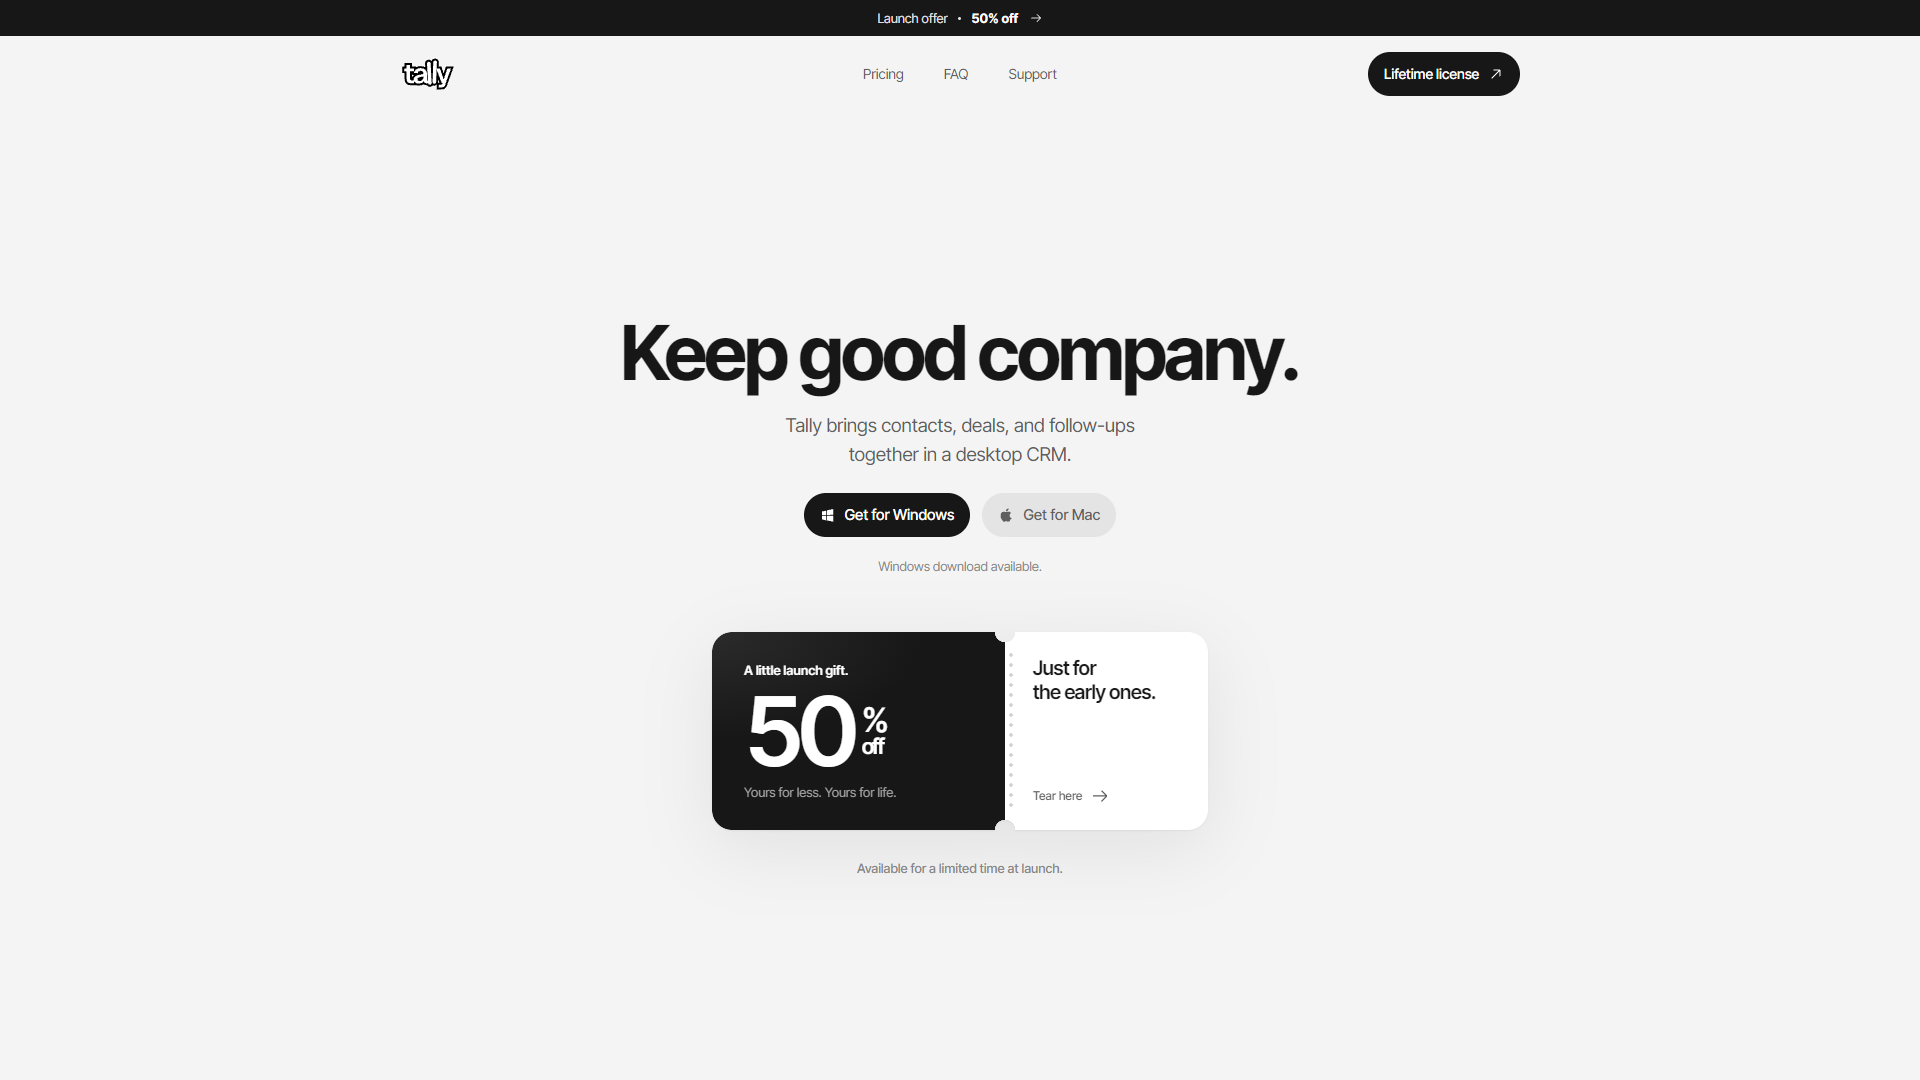
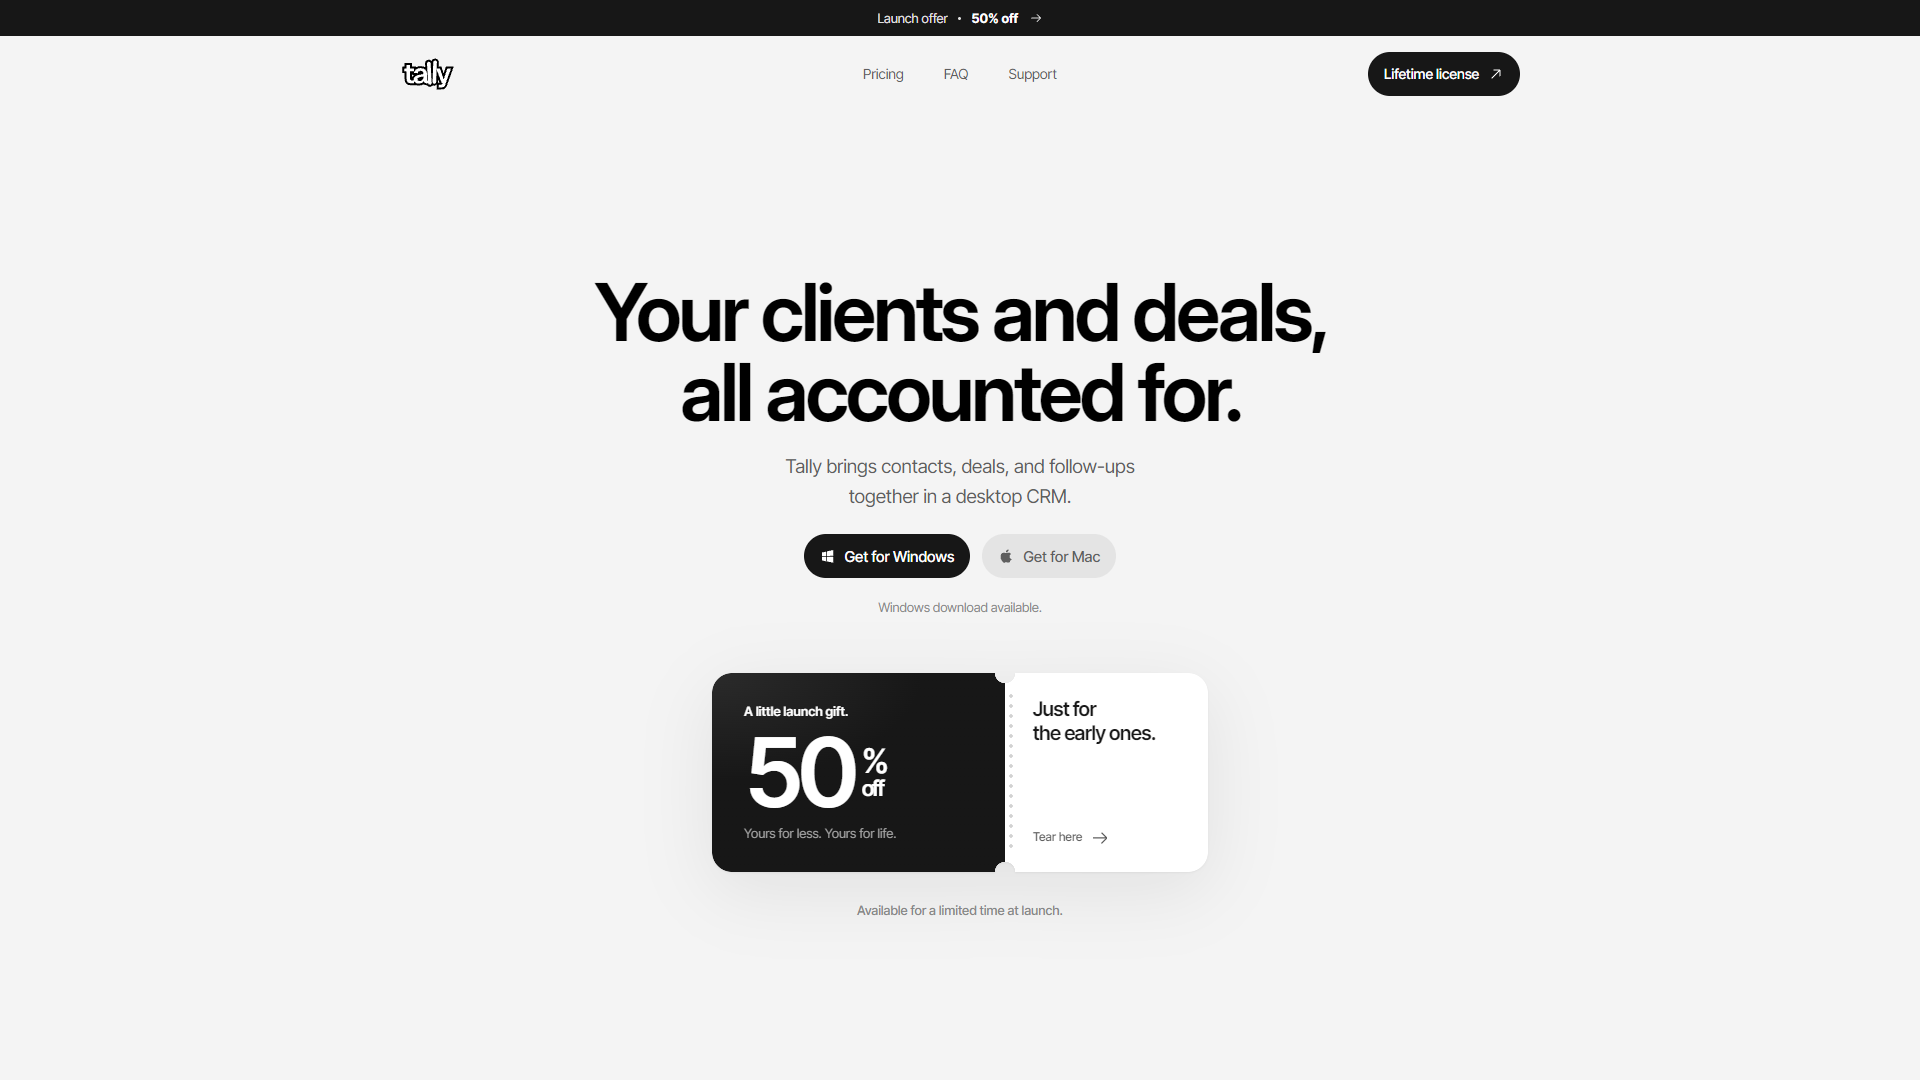
Refactor code structure for improved readability and maintainability

Changed region(s): [[0.3125, 0.2444, 0.6875, 0.8556]]

diff --git a/src/components/Projects/projectsData.js b/src/components/Projects/projectsData.js
@@ -1,4 +1,6 @@
 const tallyWeb = new URL("../../assets/projects/tally/tally-web.png", import.meta.url).href;
+const tallyWeb2 = new URL("../../assets/projects/tally/tally2.png", import.meta.url).href;
+const tallyWeb3 = new URL("../../assets/projects/tally/tally3.png", import.meta.url).href;
 const kipWeb = new URL("../../assets/projects/kip/kip-web.png", import.meta.url).href;
 
 // `image`: import a screenshot from src/assets (default import, no braces) or use a URL.
@@ -19,7 +21,7 @@ const projects = [
             "Brought project deadlines and payment tracking into the same workspace as client records.",
             "Integrated GitHub monitoring so developers can follow repository activity alongside their client work.",
         ],
-        image: [tallyWeb],
+        image: [tallyWeb, tallyWeb2, tallyWeb3],
         coverSize: { width: 1920, height: 1080 },
         background: "#F6F6F6",
     },
